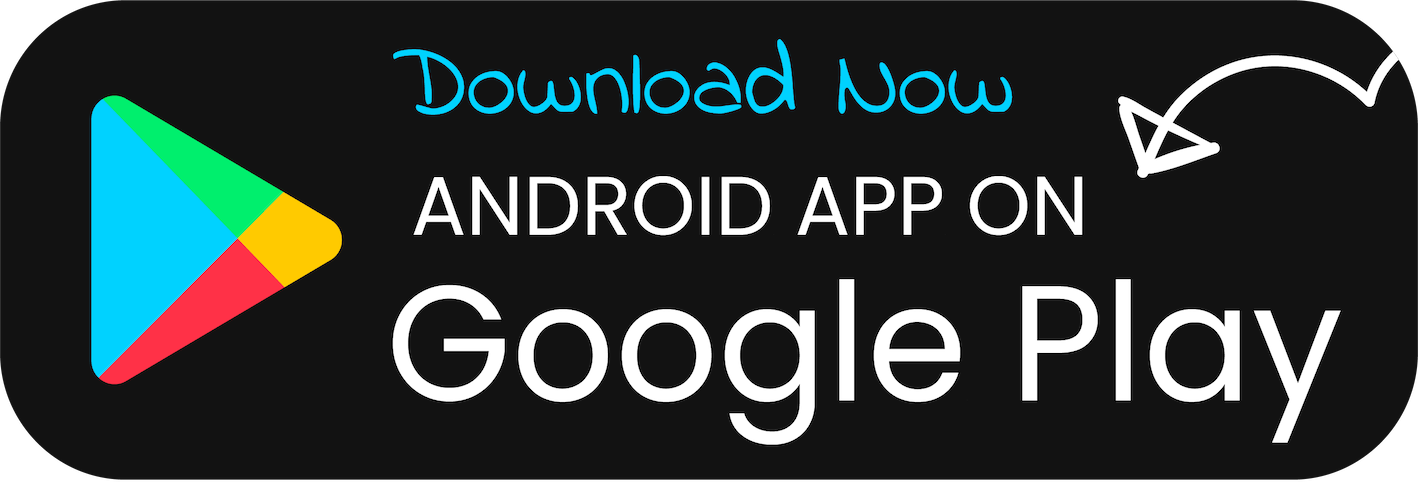
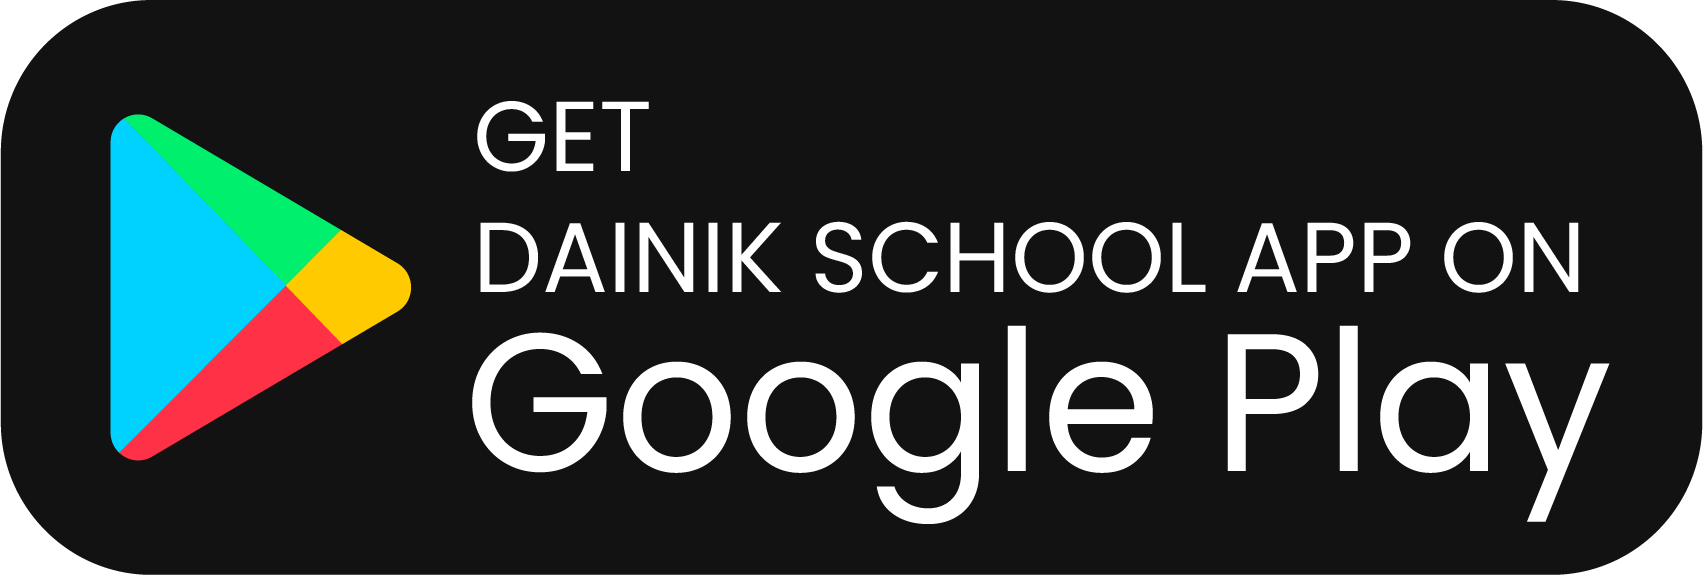
three vox update

diff --git a/src/components/Home/TextSection/TextSection.jsx b/src/components/Home/TextSection/TextSection.jsx
@@ -1,7 +1,7 @@
 import React from "react";
 import { BsArrow90DegRight } from "react-icons/bs";
-import googleplayStore from "../../../ASSETS/IMG/homepage/playStore/AppleStore.png";
-import appleStore from "../../../ASSETS/IMG/homepage/playStore/GooglePlay.png";
+import appleStore from "../../../ASSETS/IMG/homepage/playStore/AppleStore.png";
+import playStore from "../../../ASSETS/IMG/homepage/playStore/GooglePlay.png";
 import mobileApp from "../../../ASSETS/IMG/homepage/playStore/mobileApp.png";
 import "./TextSection.css";
 
@@ -58,8 +58,8 @@ export const TextSection = () => {
       <div className="text-section-right">
         <img src={mobileApp} alt="Mobile app" />
         <div>
-          <img src={googleplayStore} alt="google play store" />
-          <img src={appleStore} alt="app appstore" />
+          <img src={playStore} alt="google play store" />
+          {/* <img src={appleStore} alt="app appstore" /> */}
         </div>
       </div>
     </div>

diff --git a/src/components/Home/ThreePart/ThreePart.jsx b/src/components/Home/ThreePart/ThreePart.jsx
@@ -39,6 +39,7 @@ export function ThreePart() {
         <Link to="https://play.google.com/store/apps/details?id=com.nrichlearning.dainikschool&pli=1">
           <div className="mobile-app-icon">
             <img src={playStore} alt="playstore" />
+            <img src={appleStore} alt="playstore" />
           </div>
         </Link>
       </div>

diff --git a/src/components/Home/ThreePart/ThreePart.css b/src/components/Home/ThreePart/ThreePart.css
@@ -9,6 +9,7 @@
 .three-part-container img {
     max-width: 100%;
     min-height: 300px;
+    max-height: 100%;
 }
 
 .three-part-container>div:nth-child(1) {
@@ -81,6 +82,7 @@
 .mobile-app-icon>img {
     width: 150px;
     min-height: 50px;
+    margin-right: 10px;
 }
 
 

diff --git a/src/components/Home/CourseSection/CourseSection.css b/src/components/Home/CourseSection/CourseSection.css
@@ -35,6 +35,7 @@
 
 .course-section>div:nth-child(1) span {
     background-color: #62cc70;
+    background-color: #ff9925;
     border-bottom-left-radius: 10px;
     border-bottom-right-radius: 10px;
     border: 1px solid black;
